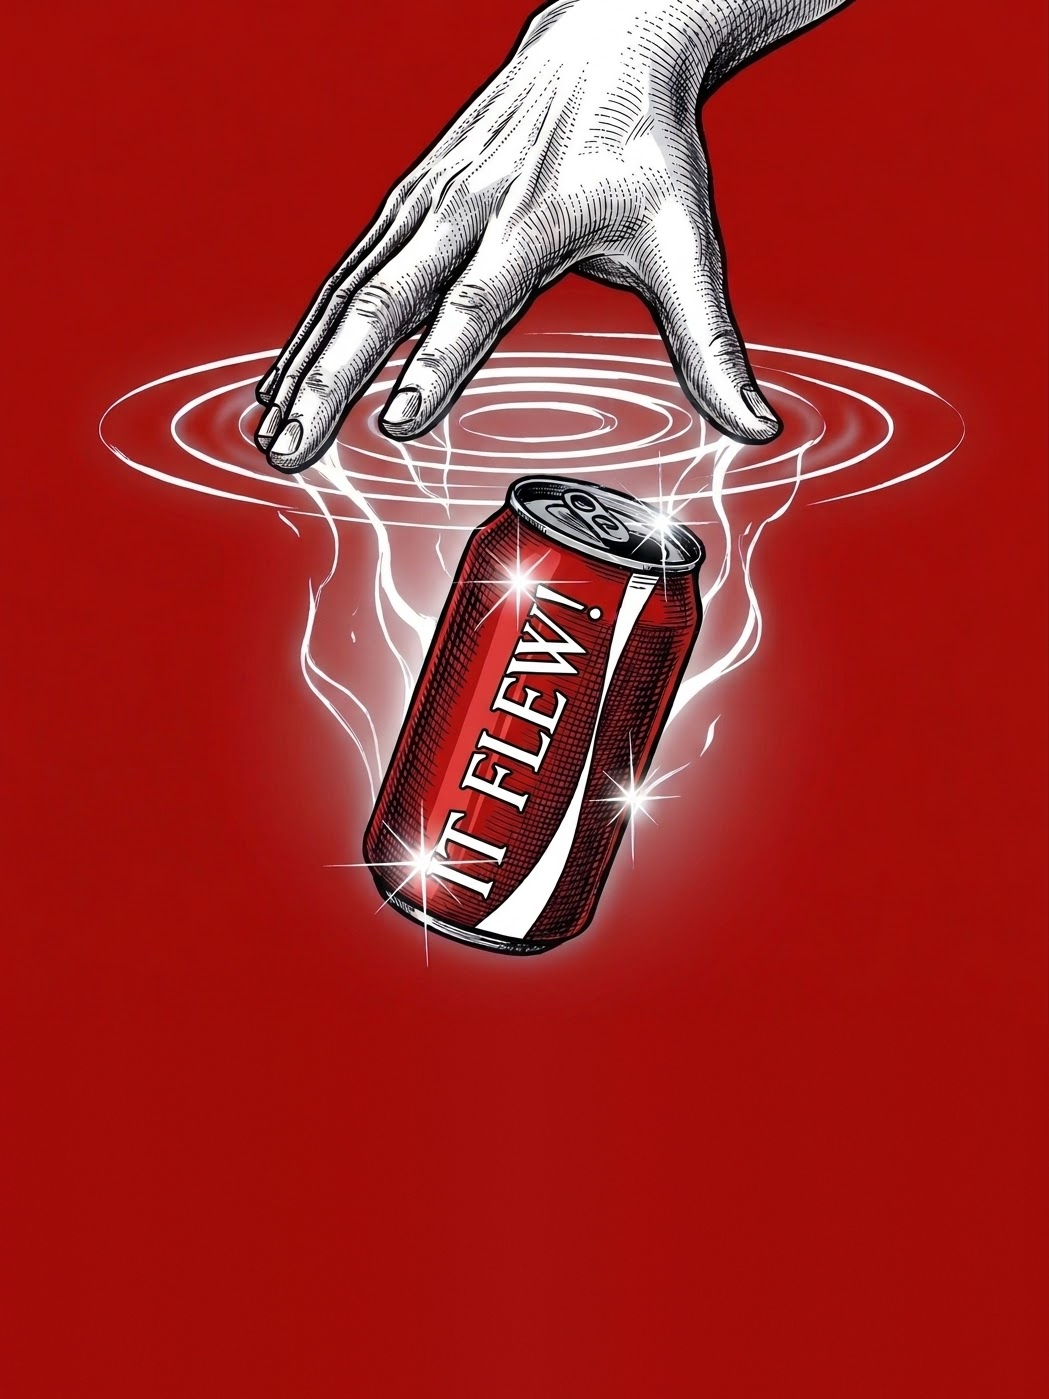
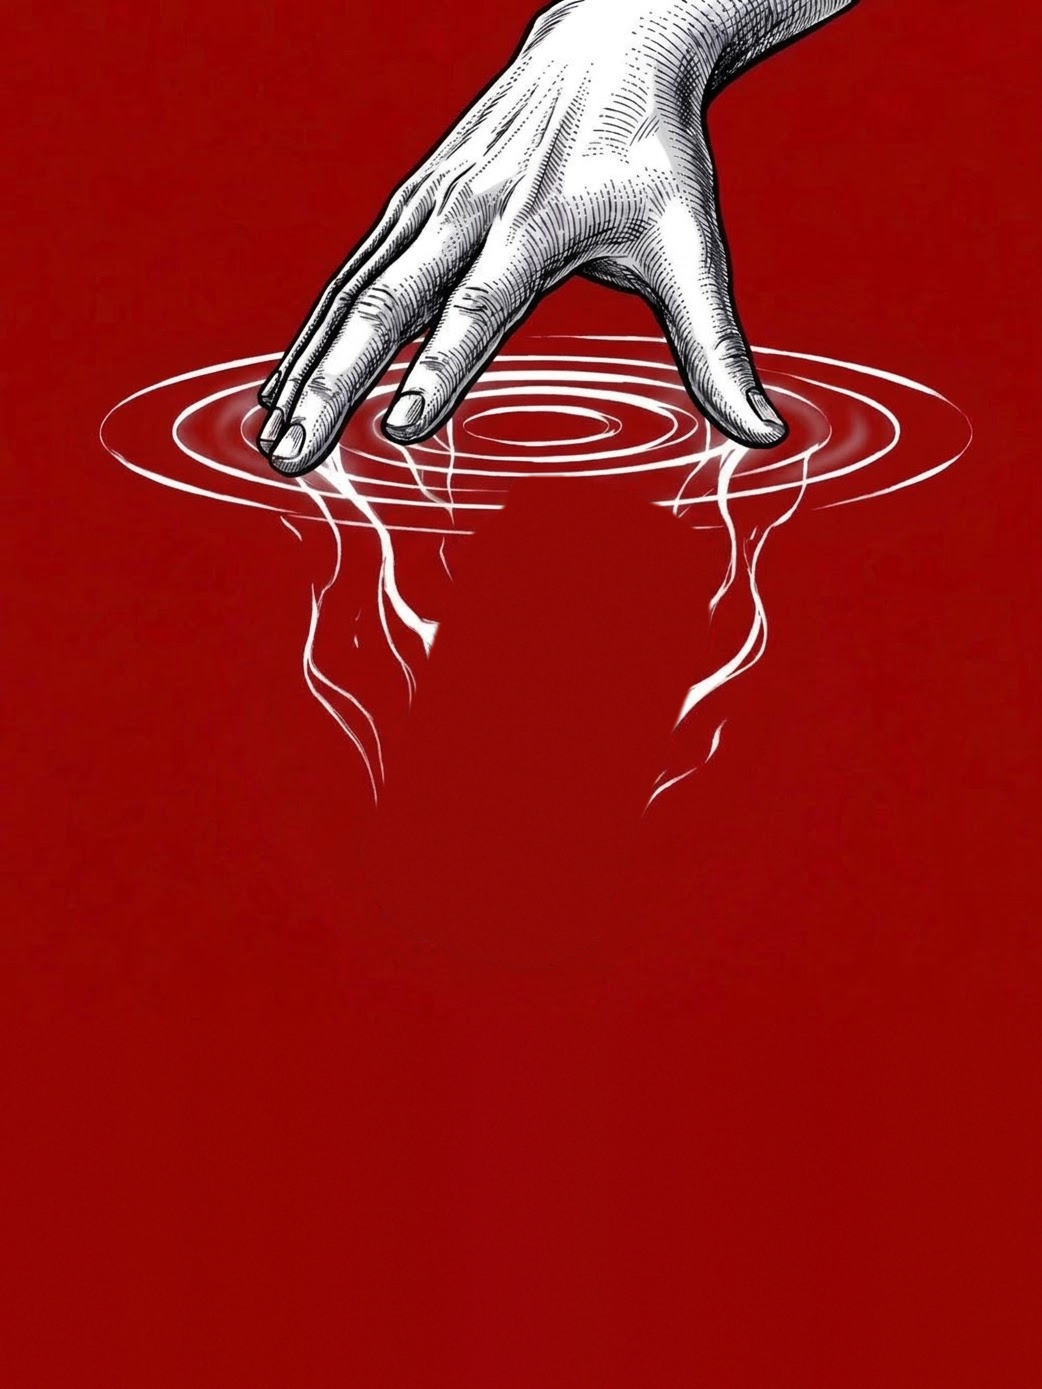
New hero art with levitating can animation
- Can cut out onto its own layer; background red rebuilt where it sat
- Art extended to 3:4 with matching red, original pixels kept elsewhere
- Can falls, gets caught by the invisible strings, and is pulled back up
  (off for reduced-motion users)

Claude-Session: https://claude.ai/code/session_015TYjQJFHaDZvqkU6soSaMS

Changed region(s): [[0.0921, 0.0, 0.9213, 0.712]]

diff --git a/app/globals.css b/app/globals.css
@@ -97,6 +97,7 @@ button { font: inherit; color: inherit; cursor: pointer; }
   position: relative; width: min(100%, calc((100svh - 44px) * 0.75)); min-width: min(100%, 420px);
   container-type: inline-size;
 }
+.hero-art { position: relative; }
 .hero-img {
   display: block; width: 100%; height: auto;
   /* soften the photo's side edges into the page red on wide screens */
@@ -104,9 +105,25 @@ button { font: inherit; color: inherit; cursor: pointer; }
   mask-image: linear-gradient(90deg, transparent 0, #000 4%, #000 96%, transparent 100%);
 }
 @media (max-width: 480px) { .hero-img { -webkit-mask-image: none; mask-image: none; } }
+/* Levitating can — positioned exactly where it sits in the art (1042x1389 canvas) */
+.hero-can {
+  position: absolute; left: 35.029%; top: 34.485%; width: 33.205%; height: auto;
+  transform-origin: 50% -40%; /* pivots from the hand above, like it hangs on strings */
+  animation: levitate 4.6s infinite;
+  will-change: transform;
+}
+@keyframes levitate {
+  0%   { transform: translateY(0) rotate(0deg); animation-timing-function: cubic-bezier(.55, 0, .9, .45); }
+  28%  { transform: translateY(16%) rotate(-2deg); animation-timing-function: cubic-bezier(.2, .6, .4, 1); } /* falls */
+  38%  { transform: translateY(10%) rotate(.8deg); animation-timing-function: ease-in-out; }                /* strings catch it */
+  48%  { transform: translateY(13%) rotate(-.6deg); animation-timing-function: cubic-bezier(.45, 0, .25, 1); }
+  90%  { transform: translateY(-3%) rotate(.4deg); animation-timing-function: ease-in-out; }                /* pulled back up */
+  100% { transform: translateY(0) rotate(0deg); }
+}
+@media (prefers-reduced-motion: reduce) { .hero-can { animation: none; } }
 /* Phone: wordmark sits under the can, its thread line rising up toward it */
 .hero-copy {
-  position: relative; margin-top: -43cqw; padding: 0 6cqw 9cqw;
+  position: relative; margin-top: -36cqw; padding: 0 6cqw 9cqw;
   display: flex; flex-direction: column; align-items: center; gap: 3cqw; text-align: center;
 }
 .hero-mark { margin: 0; line-height: 0; }

diff --git a/app/page.tsx b/app/page.tsx
@@ -11,15 +11,27 @@ export default function Home() {
       {/* HERO */}
       <section className="hero">
         <div className="hero-frame">
+          <div className="hero-art">
           <Image
             src="/hero.webp"
             alt="An engraved hand levitating an It Flew! can"
-            width={1049}
-            height={1399}
+            width={1042}
+            height={1389}
             priority
             unoptimized
             className="hero-img"
           />
+          {/* the can floats on its own layer: falls, gets caught by the invisible strings, rises */}
+          <Image
+            src="/hero-can.webp"
+            alt=""
+            width={346}
+            height={485}
+            priority
+            unoptimized
+            className="hero-can"
+          />
+          </div>
           <div className="hero-copy">
             <h1 className="hero-mark">
               <Image
